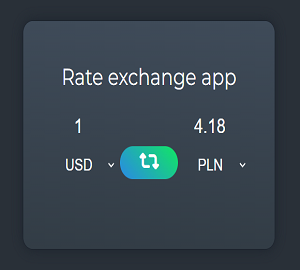
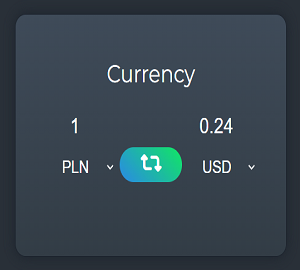
commit

diff --git a/index.html b/index.html
@@ -8,11 +8,11 @@
     <link href="https://fonts.googleapis.com/css?family=Dancing+Script|Montserrat:200, 400,700&display=swap&subset=latin-ext"
         rel="stylesheet">
     <link rel="stylesheet" href="style.css">
-    <title>Rate exchange</title>
+    <title>Currency</title>
 </head>
 <body>
     <div class="wrapper">
-        <h1>Rate exchange app</h1>
+        <h1>Currency</h1>
         <br>
 
         <div class="app-body">
